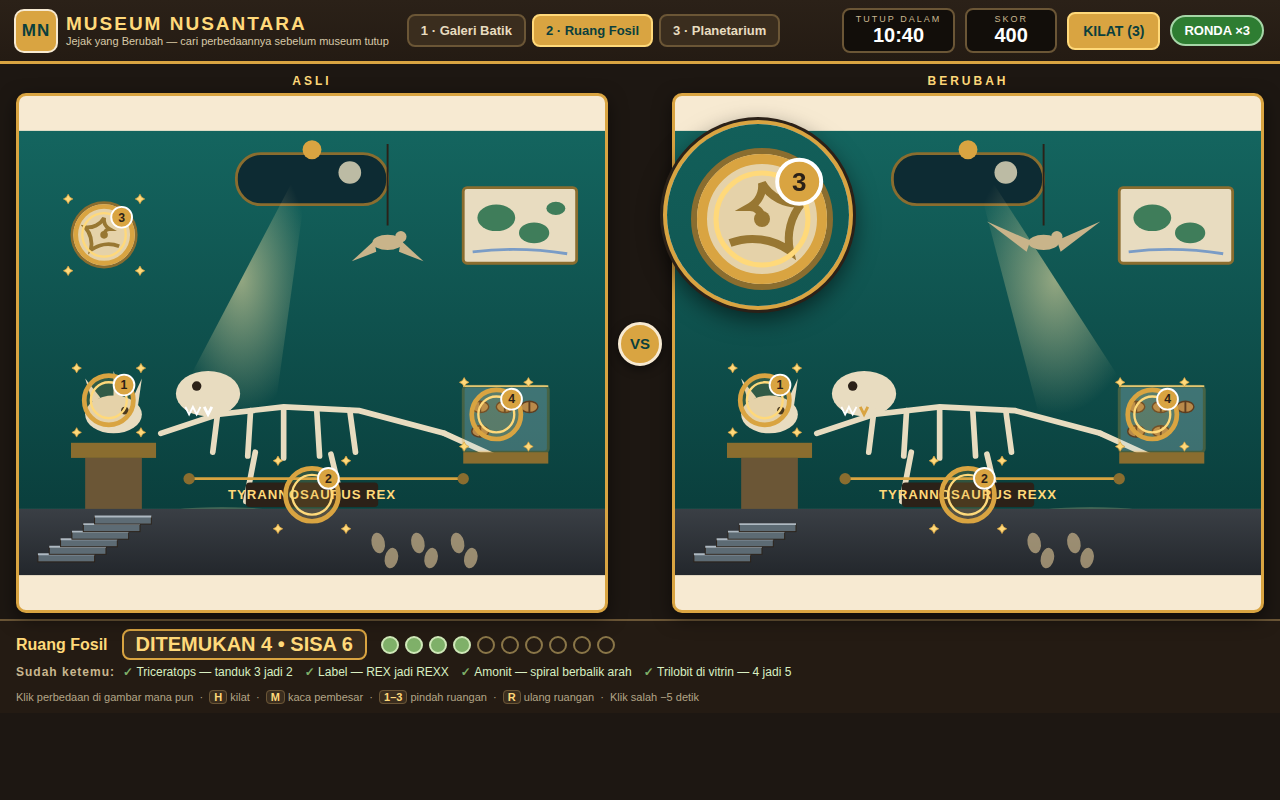
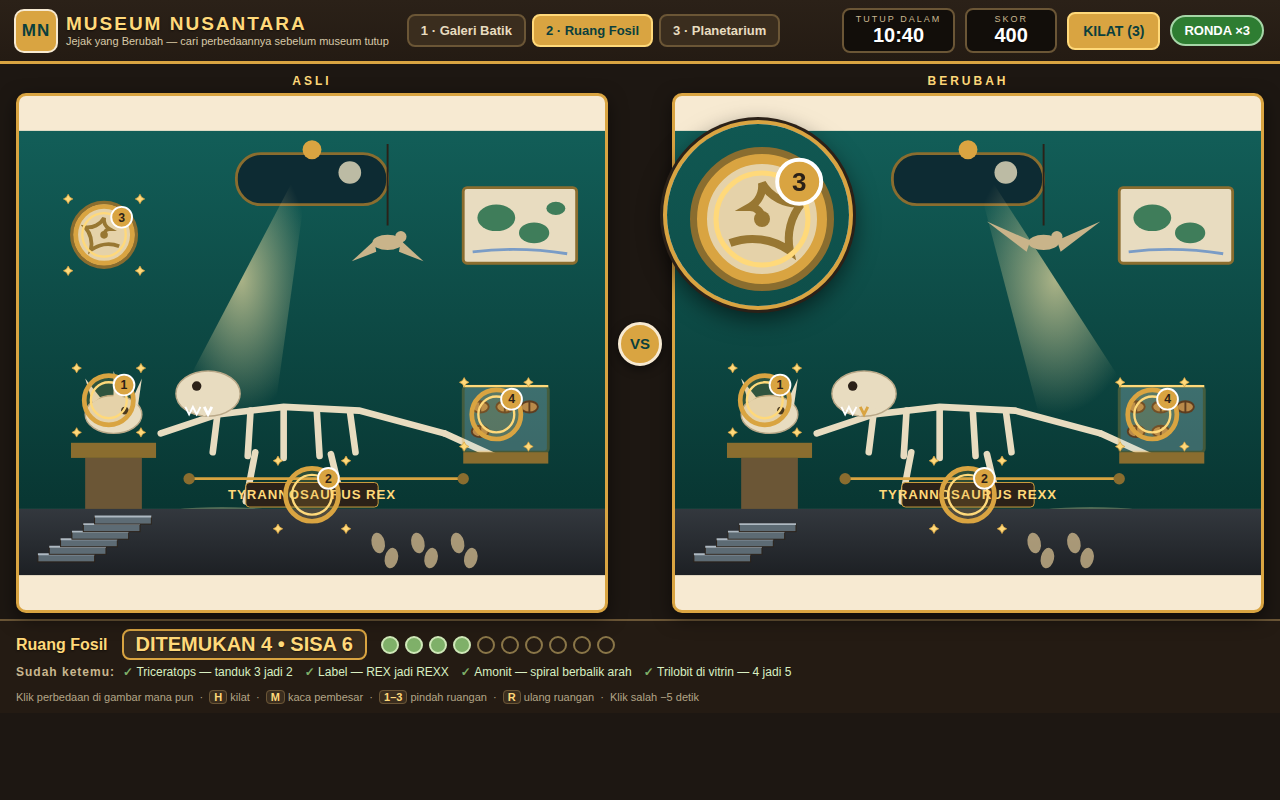
V1.1: Galeri Batik cover — richer floor, larger markers; sharpen + beautify all 3 scenes
- Scene 1: patterned runner carpet under bench, 2nd potted plant (left),
  pedestal + ceramic vase (right), larger/brighter pendant lamps,
  window sills, bench highlight, crisper sign + batik motif strokes,
  warmer wall/floor gradients.
- Markers: Scene 1 diff rings x1.2 (hit radius follows via diff.r).
- Scene 2/3: deeper teal / warmer gold grading, stronger spotlight,
  moon glow, thicker bone/planet outlines, crisper labels.
- HUD text: subtle shadow for crisper rendering (layout/function unchanged).
- All 8 Scene 1 diffs click-verified; 0 JS errors; pipeline 2x byte-identical.
- Screenshots re-shot with identical states (VH=713+pad800 pipeline).

diff --git a/game/scenes.js b/game/scenes.js
@@ -27,7 +27,7 @@
     return '<g>' +
       '<rect x="' + (x - 5) + '" y="' + (y - 5) + '" width="' + (w + 10) + '" height="' + (h + 10) +
       '" rx="4" fill="#8a6d2f"/>' +
-      '<rect x="' + x + '" y="' + y + '" width="' + w + '" height="' + h + '" fill="#fdf6e3"/>' +
+      '<rect x="' + x + '" y="' + y + '" width="' + w + '" height="' + h + '" fill="#fdf6e3" stroke="#d9a441" stroke-width="1.5"/>' +
       motif +
       '</g>';
   }
@@ -38,7 +38,7 @@
     rows.forEach(function (r) {
       var off = r[0] * 14, yy = y + r[1];
       for (var cx = x + 8 + off; cx < x + w - 6; cx += 28) {
-        s += '<path d="M' + cx + ' ' + yy + ' a11 11 0 0 1 22 0 Z" fill="' + color + '"/>';
+        s += '<path d="M' + cx + ' ' + yy + ' a11 11 0 0 1 22 0 Z" fill="' + color + '" stroke="rgba(43,33,24,0.25)" stroke-width="1"/>';
       }
     });
     return s;
@@ -49,8 +49,8 @@
     for (var i = 0; i < n; i++) {
       var x0 = x + 10 + i * 34;
       s += '<path d="M' + x0 + ' ' + (y + h - 8) + ' L' + (x0 + 26) + ' ' + (y + 8) +
-        '" stroke="#7a3b1e" stroke-width="7" stroke-linecap="round"/>';
-      s += '<circle cx="' + (x0 + 13) + '" cy="' + (y + h / 2) + '" r="4" fill="#c96f3f"/>';
+        '" stroke="#7a3b1e" stroke-width="8" stroke-linecap="round"/>';
+      s += '<circle cx="' + (x0 + 13) + '" cy="' + (y + h / 2) + '" r="4.5" fill="#c96f3f"/>';
     }
     return s;
   }
@@ -58,7 +58,7 @@
     var s = '';
     [[0.25, 0.3], [0.75, 0.3], [0.25, 0.75], [0.75, 0.75]].forEach(function (p) {
       var cx = x + w * p[0], cy = y + h * p[1];
-      s += '<circle cx="' + cx + '" cy="' + cy + '" r="16" fill="none" stroke="#0f5f5c" stroke-width="4"/>' +
+      s += '<circle cx="' + cx + '" cy="' + cy + '" r="16" fill="none" stroke="#0f5f5c" stroke-width="5"/>' +
         '<circle cx="' + cx + '" cy="' + cy + '" r="6" fill="#d9a441"/>';
     });
     return s;
@@ -78,7 +78,7 @@
     for (var i = 0; i < 3; i++) {
       for (var j = 0; j < 2; j++) {
         var cx = x + 22 + i * 44, cy = y + 20 + j * 40;
-        s += '<rect x="' + (cx - 11) + '" y="' + (cy - 11) + '" width="22" height="22" fill="none" stroke="#b23a2e" stroke-width="3" transform="rotate(45 ' + cx + ' ' + cy + ')"/>' +
+        s += '<rect x="' + (cx - 11) + '" y="' + (cy - 11) + '" width="22" height="22" fill="none" stroke="#b23a2e" stroke-width="4" transform="rotate(45 ' + cx + ' ' + cy + ')"/>' +
           '<circle cx="' + cx + '" cy="' + cy + '" r="4" fill="#b23a2e"/>';
       }
     }
@@ -102,14 +102,14 @@
     sub: 'Ruangan 1 dari 3',
     diffCount: 8,
     diffs: [
-      { id: 1, name: 'Motif parang — satu garis hilang', type: 'removed', x: 310, y: 137, r: 30 },
-      { id: 2, name: 'Mega mendung — biru jadi hijau', type: 'recoloured', x: 120, y: 137, r: 30 },
-      { id: 3, name: 'Kucing Moci — hilang dari bangku', type: 'removed', x: 330, y: 392, r: 28 },
-      { id: 4, name: 'Tanda — MENYENTUH jadi MEMOTRET', type: 'word', x: 525, y: 340, r: 30, shape: 'rect', rx: 55, ry: 20 },
-      { id: 5, name: 'Pot tanaman — daun 5 jadi 4', type: 'removed', x: 75, y: 350, r: 28 },
-      { id: 6, name: 'Lampu langit-langit — 3 nyala jadi 2', type: 'removed', x: 410, y: 38, r: 26 },
-      { id: 7, name: 'Ubin lantai — motif terbalik', type: 'flipped', x: 505, y: 447, r: 26 },
-      { id: 8, name: 'Bingkai batik lasem — mengecil', type: 'resized', x: 500, y: 257, r: 32 }
+      { id: 1, name: 'Motif parang — satu garis hilang', type: 'removed', x: 310, y: 137, r: 36 },
+      { id: 2, name: 'Mega mendung — biru jadi hijau', type: 'recoloured', x: 120, y: 137, r: 36 },
+      { id: 3, name: 'Kucing Moci — hilang dari bangku', type: 'removed', x: 330, y: 392, r: 34 },
+      { id: 4, name: 'Tanda — MENYENTUH jadi MEMOTRET', type: 'word', x: 525, y: 340, r: 36, shape: 'rect', rx: 55, ry: 20 },
+      { id: 5, name: 'Pot tanaman — daun 5 jadi 4', type: 'removed', x: 75, y: 350, r: 34 },
+      { id: 6, name: 'Lampu langit-langit — 3 nyala jadi 2', type: 'removed', x: 410, y: 38, r: 31 },
+      { id: 7, name: 'Ubin lantai — motif terbalik', type: 'flipped', x: 505, y: 447, r: 31 },
+      { id: 8, name: 'Bingkai batik lasem — mengecil', type: 'resized', x: 500, y: 257, r: 38 }
     ],
     draw: function (variant) {
       var B = variant === 'berubah';
@@ -117,9 +117,9 @@
       // defs: gradasi dinding + lantai + glow lampu
       s += '<defs>' +
         '<linearGradient id="wall1" x1="0" y1="0" x2="0" y2="1">' +
-        '<stop offset="0" stop-color="#fdf3d8"/><stop offset="1" stop-color="#f0d9a8"/></linearGradient>' +
+        '<stop offset="0" stop-color="#fdf3d8"/><stop offset="1" stop-color="#eec98f"/></linearGradient>' +
         '<linearGradient id="floor1" x1="0" y1="0" x2="0" y2="1">' +
-        '<stop offset="0" stop-color="#b98a52"/><stop offset="1" stop-color="#8a5f30"/></linearGradient>' +
+        '<stop offset="0" stop-color="#b98a52"/><stop offset="1" stop-color="#7d5527"/></linearGradient>' +
         '<radialGradient id="lampGlow" cx="0.5" cy="0.5" r="0.5">' +
         '<stop offset="0" stop-color="#ffe9a8" stop-opacity="0.9"/><stop offset="1" stop-color="#ffe9a8" stop-opacity="0"/></radialGradient>' +
         '</defs>';
@@ -131,14 +131,16 @@
           ' 34 L' + (cx + 34) + ' 78 Z" fill="#bfe0ea" stroke="#8a6d2f" stroke-width="4"/>' +
           '<circle cx="' + (cx + 10) + '" cy="48" r="10" fill="#ffd97a"/>' +
           '<path d="M' + (cx - 24) + ' 62 Q' + (cx - 8) + ' 52 ' + (cx + 6) + ' 62 Q' + (cx + 20) + ' 70 ' + (cx + 26) + ' 60" stroke="#fff" stroke-width="3" fill="none"/></g>';
+        // ambang jendela (finishing): garis tegas di bawah lengkung
+        s += '<rect x="' + (cx - 38) + '" y="78" width="76" height="5" rx="2" fill="#8a6d2f"/>';
       });
       // lampu langit-langit (3, tengah mati di berubah) — di antara jendela, bukan di depannya
       [185, 410, 590].forEach(function (cx, i) {
         var lit = !(B && i === 1);
         s += '<line x1="' + cx + '" y1="14" x2="' + cx + '" y2="26" stroke="#6b5636" stroke-width="3"/>';
-        if (lit) s += '<circle cx="' + cx + '" cy="40" r="26" fill="url(#lampGlow)"/>';
-        s += '<path d="M' + (cx - 12) + ' 26 L' + (cx + 12) + ' 26 L' + (cx + 7) + ' 40 L' + (cx - 7) + ' 40 Z" fill="' + (lit ? '#d9a441' : '#8a7a5c') + '"/>' +
-          '<circle cx="' + cx + '" cy="42" r="6" fill="' + (lit ? '#fff3c4' : '#6b6248') + '"/>';
+        if (lit) s += '<circle cx="' + cx + '" cy="40" r="31" fill="url(#lampGlow)"/>';
+        s += '<path d="M' + (cx - 14) + ' 26 L' + (cx + 14) + ' 26 L' + (cx + 8) + ' 40 L' + (cx - 8) + ' 40 Z" fill="' + (lit ? '#d9a441' : '#8a7a5c') + '"/>' +
+          '<circle cx="' + cx + '" cy="42" r="7.5" fill="' + (lit ? '#fff3c4' : '#6b6248') + '"/>';
       });
       // ---- MIDGROUND: 6 bingkai batik (2 baris x 3) ----
       s += batikFrame(40, 96, 150, 84, megaMendung(40, 96, 150, 84, B ? '#3f8f5f' : '#2f6fb2'));
@@ -150,9 +152,9 @@
       if (B) s += '<g transform="translate(500,257) scale(0.82) translate(-500,-257)">' + batikFrame(430, 210, 150, 84, lasem(430, 210, 150, 84)) + '</g>';
       else s += batikFrame(430, 210, 150, 84, lasem(430, 210, 150, 84));
       // tanda di dinding kanan
-      s += '<g><rect x="470" y="320" width="110" height="40" rx="6" fill="#2b2118"/>' +
-        '<text x="525" y="338" text-anchor="middle" fill="#f7ead2" font-size="13" font-weight="bold">DILARANG</text>' +
-        '<text x="525" y="354" text-anchor="middle" fill="#ffd97a" font-size="13" font-weight="bold">' + (B ? 'MEMOTRET' : 'MENYENTUH') + '</text></g>';
+      s += '<g><rect x="470" y="320" width="110" height="40" rx="6" fill="#2b2118" stroke="#d9a441" stroke-width="1.5"/>' +
+        '<text x="525" y="338" text-anchor="middle" fill="#f7ead2" font-size="14" font-weight="bold">DILARANG</text>' +
+        '<text x="525" y="354" text-anchor="middle" fill="#ffd97a" font-size="14" font-weight="bold">' + (B ? 'MEMOTRET' : 'MENYENTUH') + '</text></g>';
       // ---- FOREGROUND: lantai + ubin + bangku + pot ----
       s += '<rect x="0" y="400" width="620" height="70" fill="url(#floor1)"/>';
       for (var px = 0; px < 620; px += 62) {
@@ -166,6 +168,12 @@
           '<rect x="0" y="0" width="40" height="30" rx="3" fill="#e8dcc0" stroke="#8a6d2f" stroke-width="2"/>' +
           '<path d="M20 4 L26 15 L20 26 L14 15 Z" fill="#c96f3f"/></g>';
       }
+      // karpet runner bermotif di lantai (dekorasi non-diff, di bawah bangku)
+      s += '<g><rect x="205" y="406" width="250" height="60" rx="4" fill="#a83226" stroke="#7a241a" stroke-width="2"/>' +
+        '<rect x="213" y="412" width="234" height="48" rx="3" fill="none" stroke="#d9a441" stroke-width="2"/></g>';
+      for (var dx = 232; dx <= 428; dx += 28) {
+        s += '<path d="M' + dx + ' 428 L' + (dx + 7) + ' 436 L' + dx + ' 444 L' + (dx - 7) + ' 436 Z" fill="#d9a441"/>';
+      }
       // pot tanaman kiri (5 daun -> 4)
       s += '<g><path d="M55 400 L60 372 L95 372 L100 400 Z" fill="#a83226"/>' +
         '<rect x="52" y="366" width="50" height="10" rx="3" fill="#7a241a"/></g>';
@@ -174,16 +182,33 @@
         var lx = 62 + li * 11, lh = 26 - Math.abs(li - 2) * 5;
         s += '<ellipse cx="' + lx + '" cy="' + (368 - lh / 2) + '" rx="6" ry="' + lh / 2 + '" fill="#3f7d3a" transform="rotate(' + ((li - 2) * 12) + ' ' + lx + ' 368)"/>';
       }
+      // pot tanaman kedua di ujung kiri deretan bangku (dekorasi non-diff)
+      s += '<g><path d="M192 400 L196 372 L220 372 L224 400 Z" fill="#2f6f5c"/>' +
+        '<rect x="188" y="366" width="36" height="10" rx="3" fill="#245548"/>' +
+        '<circle cx="198" cy="360" r="10" fill="#4a8f3f" stroke="#2f5c28" stroke-width="1"/>' +
+        '<circle cx="206" cy="352" r="11" fill="#55a047" stroke="#2f5c28" stroke-width="1"/>' +
+        '<circle cx="214" cy="360" r="10" fill="#4a8f3f" stroke="#2f5c28" stroke-width="1"/></g>';
+      // pedestal display + vas keramik di ujung kanan deretan bangku (dekorasi non-diff)
+      s += '<g><rect x="436" y="352" width="32" height="50" fill="#6b5636"/>' +
+        '<rect x="434" y="348" width="34" height="6" rx="2" fill="#d9a441"/>' +
+        '<rect x="434" y="400" width="34" height="5" fill="#4a3a22"/>' +
+        '<path d="M442 348 C436 336 436 328 444 324 L460 324 C468 328 468 336 462 348 Z" fill="#2f6fb2"/>' +
+        '<rect x="442" y="334" width="20" height="4" fill="#fdf6e3"/>' +
+        '<rect x="448" y="320" width="8" height="6" fill="#2f6fb2"/>' +
+        '<path d="M452 320 Q448 310 444 308" stroke="#3f7d3a" stroke-width="2" fill="none"/>' +
+        '<path d="M452 320 Q456 310 460 308" stroke="#3f7d3a" stroke-width="2" fill="none"/></g>';
       // bayangan lembut di bawah bangku + pot (cahaya dari langit-langit, atas)
       s += '<ellipse cx="320" cy="430" rx="115" ry="8" fill="#000" opacity="0.12"/>' +
-        '<ellipse cx="78" cy="426" rx="38" ry="6" fill="#000" opacity="0.12"/>';
+        '<ellipse cx="78" cy="426" rx="38" ry="6" fill="#000" opacity="0.12"/>' +
+        '<ellipse cx="206" cy="424" rx="26" ry="5" fill="#000" opacity="0.12"/>';
       // bangku kayu + Moci (hilang di berubah)
       s += '<g><rect x="230" y="384" width="200" height="14" rx="4" fill="#7a5230"/>' +
+        '<rect x="230" y="384" width="200" height="3" rx="1.5" fill="#a87b45"/>' +
         '<rect x="242" y="398" width="12" height="26" fill="#5d3d20"/>' +
         '<rect x="406" y="398" width="12" height="26" fill="#5d3d20"/></g>';
       if (!B) s += cat(330, 378, 1);
       // tali pembatas depan bingkai bawah (foreground tipis)
-      s += '<g><line x1="30" y1="318" x2="590" y2="318" stroke="#d9a441" stroke-width="3"/>' +
+      s += '<g><line x1="30" y1="318" x2="590" y2="318" stroke="#d9a441" stroke-width="4"/>' +
         '<circle cx="30" cy="318" r="6" fill="#8a6d2f"/><circle cx="310" cy="318" r="6" fill="#8a6d2f"/><circle cx="590" cy="318" r="6" fill="#8a6d2f"/></g>';
       return s;
     }
@@ -212,17 +237,17 @@
       var s = '';
       s += '<defs>' +
         '<linearGradient id="wall2" x1="0" y1="0" x2="0" y2="1">' +
-        '<stop offset="0" stop-color="#14655f"/><stop offset="1" stop-color="#0a3f3d"/></linearGradient>' +
+        '<stop offset="0" stop-color="#125e58"/><stop offset="1" stop-color="#083632"/></linearGradient>' +
         '<linearGradient id="floor2" x1="0" y1="0" x2="0" y2="1">' +
-        '<stop offset="0" stop-color="#3a3f45"/><stop offset="1" stop-color="#23272c"/></linearGradient>' +
+        '<stop offset="0" stop-color="#33383e"/><stop offset="1" stop-color="#1d2024"/></linearGradient>' +
         '<radialGradient id="spot2" cx="0.5" cy="0.5" r="0.5">' +
-        '<stop offset="0" stop-color="#ffe9a8" stop-opacity="0.55"/><stop offset="1" stop-color="#ffe9a8" stop-opacity="0"/></radialGradient>' +
+        '<stop offset="0" stop-color="#ffe9a8" stop-opacity="0.65"/><stop offset="1" stop-color="#ffe9a8" stop-opacity="0"/></radialGradient>' +
         '</defs>';
       // ---- BACKGROUND: dinding teal + amonit + peta ----
       s += '<rect x="0" y="0" width="620" height="400" fill="url(#wall2)"/>';
       // amonit besar di dinding kiri (spiral berbalik di berubah)
       s += '<g transform="translate(90,110) ' + (B ? 'scale(-1,1)' : '') + '">' +
-        '<circle r="34" fill="#e8dcc0" stroke="#8a6d2f" stroke-width="3"/>' +
+        '<circle r="34" fill="#e8dcc0" stroke="#8a6d2f" stroke-width="4"/>' +
         '<path d="M0 0 A6 6 0 0 1 6 -6 A12 12 0 0 1 0 -18 A20 20 0 0 1 -20 -8 A28 28 0 0 1 -14 16 A32 32 0 0 1 16 12" fill="none" stroke="#8a6d2f" stroke-width="4"/>' +
         '<circle r="4" fill="#8a6d2f"/></g>';
       // peta dinding kanan (satu benua hilang di berubah)
@@ -240,7 +265,7 @@
       s += '<path d="M310 14 L' + (spotX - 55) + ' 300 L' + (spotX + 55) + ' 300 Z" fill="url(#spot2)"/>';
       s += '<circle cx="310" cy="20" r="10" fill="#d9a441"/>';
       // kolam cahaya spotlight di lantai (satu sumber cahaya: dari atas ke T-rex)
-      s += '<ellipse cx="' + spotX + '" cy="408" rx="72" ry="10" fill="#ffe9a8" opacity="0.20"/>';
+      s += '<ellipse cx="' + spotX + '" cy="408" rx="72" ry="10" fill="#ffe9a8" opacity="0.28"/>';
       // pterodactyl gantung (sayap terlipat / terbentang)
       s += '<line x1="390" y1="14" x2="390" y2="100" stroke="#2b2118" stroke-width="2"/>';
       if (B) {
@@ -249,36 +274,36 @@
         s += '<g fill="#c9b48a"><ellipse cx="390" cy="118" rx="16" ry="8"/><path d="M376 116 L352 138 L378 128 Z"/><path d="M404 116 L428 138 L402 128 Z"/><circle cx="404" cy="112" r="6"/></g>';
       }
       // kerangka T-rex (tengah): tengkorak, tulang punggung, rusuk, kaki, ekor
-      s += '<g stroke="#e8dcc0" stroke-width="6" stroke-linecap="round" fill="none">' +
+      s += '<g stroke="#e8dcc0" stroke-width="7" stroke-linecap="round" fill="none">' +
         '<path d="M150 320 L210 300 L280 292 L360 296 L450 320"/>' + // tulang punggung
         '<path d="M210 300 L205 340 M245 296 L242 344 M280 294 L280 346 M315 295 L318 344 M350 296 L356 340"/>' + // rusuk
         '<path d="M250 340 L240 392 M330 342 L342 392"/>' + // kaki
         '<path d="M450 320 L505 345"/>' + // ekor
         '</g>';
       // tengkorak T-rex + rahang + gigi (satu emas di berubah)
-      s += '<g><ellipse cx="200" cy="278" rx="34" ry="24" fill="#e8dcc0"/>' +
+      s += '<g><ellipse cx="200" cy="278" rx="34" ry="24" fill="#e8dcc0" stroke="#b9a888" stroke-width="1.5"/>' +
         '<path d="M172 286 L196 302 L222 288 Z" fill="#e8dcc0"/>' +
         '<circle cx="188" cy="270" r="5" fill="#2b2118"/>' +
         '<path d="M176 292 l4 8 4 -8 4 8 4 -8" stroke="#fff" stroke-width="2" fill="none"/>' +
         '<path d="M196 292 l4 8 4 -8" stroke="' + (B ? '#d9a441' : '#fff') + '" stroke-width="3" fill="none"/></g>';
       // label nama Latin
-      s += '<g><rect x="240" y="372" width="140" height="26" rx="4" fill="#2b2118"/>' +
+      s += '<g><rect x="240" y="372" width="140" height="26" rx="4" fill="#2b2118" stroke="#d9a441" stroke-width="1"/>' +
         '<text x="310" y="390" text-anchor="middle" fill="#ffd97a" font-size="14" font-weight="bold" letter-spacing="1">TYRANNOSAURUS ' + (B ? 'REXX' : 'REX') + '</text></g>';
       // tengkorak triceratops di podium kiri (3 tanduk -> 2)
       s += '<g><rect x="55" y="330" width="90" height="16" fill="#8a6d2f"/><rect x="70" y="346" width="60" height="54" fill="#6b5636"/>' +
-        '<ellipse cx="100" cy="300" rx="30" ry="20" fill="#e8dcc0"/>' +
+        '<ellipse cx="100" cy="300" rx="30" ry="20" fill="#e8dcc0" stroke="#b9a888" stroke-width="1.5"/>' +
         '<path d="M78 288 L70 262 L86 282 Z" fill="#e8dcc0"/>' +
         (B ? '' : '<path d="M100 282 L100 254 L110 282 Z" fill="#e8dcc0"/>') +
         '<path d="M118 288 L130 262 L126 290 Z" fill="#e8dcc0"/>' +
         '<circle cx="112" cy="296" r="4" fill="#2b2118"/></g>';
       // vitrin trilobit kanan (4 -> 5) + rim light di tepi atas (cahaya dari atas)
       s += '<g><rect x="470" y="270" width="90" height="70" rx="4" fill="#bfe0ea" opacity="0.28" stroke="#d9a441" stroke-width="3"/>' +
-        '<line x1="470" y1="270" x2="560" y2="270" stroke="#ffd97a" stroke-width="2" opacity="0.85"/>' +
+        '<line x1="470" y1="270" x2="560" y2="270" stroke="#ffd97a" stroke-width="2.5" opacity="1"/>' +
         '<rect x="470" y="340" width="90" height="12" fill="#8a6d2f"/></g>';
       var tri = B ? 5 : 4;
       for (var ti = 0; ti < tri; ti++) {
         var txp = 488 + (ti % 3) * 26, typ = 292 + Math.floor(ti / 3) * 26;
-        s += '<ellipse cx="' + txp + '" cy="' + typ + '" rx="9" ry="6" fill="#b98a4a" stroke="#5d3d20" stroke-width="1.5"/>' +
+        s += '<ellipse cx="' + txp + '" cy="' + typ + '" rx="9" ry="6" fill="#b98a4a" stroke="#5d3d20" stroke-width="2"/>' +
           '<line x1="' + txp + '" y1="' + (typ - 6) + '" x2="' + txp + '" y2="' + (typ + 6) + '" stroke="#5d3d20" stroke-width="2"/>';
       }
       // ---- FOREGROUND: lantai + tangga + jejak ----
@@ -294,8 +319,8 @@
       var pairs = B ? 2 : 3;
       for (var fi = 0; fi < pairs; fi++) {
         var fx = 380 + fi * 42;
-        s += '<ellipse cx="' + fx + '" cy="436" rx="7" ry="11" fill="#c9b48a" opacity="0.7" transform="rotate(-12 ' + fx + ' 436)"/>' +
-          '<ellipse cx="' + (fx + 14) + '" cy="452" rx="7" ry="11" fill="#c9b48a" opacity="0.7" transform="rotate(12 ' + (fx + 14) + ' 452)"/>';
+        s += '<ellipse cx="' + fx + '" cy="436" rx="7" ry="11" fill="#c9b48a" opacity="0.8" transform="rotate(-12 ' + fx + ' 436)"/>' +
+          '<ellipse cx="' + (fx + 14) + '" cy="452" rx="7" ry="11" fill="#c9b48a" opacity="0.8" transform="rotate(12 ' + (fx + 14) + ' 452)"/>';
       }
       // tali pembatas
       s += '<g><line x1="180" y1="368" x2="470" y2="368" stroke="#d9a441" stroke-width="3"/>' +
@@ -334,6 +359,8 @@
         '<stop offset="0" stop-color="#2c3550"/><stop offset="1" stop-color="#141a2e"/></linearGradient>' +
         '<radialGradient id="spot3" cx="0.5" cy="0.5" r="0.5">' +
         '<stop offset="0" stop-color="#9fb4ff" stop-opacity="0.5"/><stop offset="1" stop-color="#9fb4ff" stop-opacity="0"/></radialGradient>' +
+        '<radialGradient id="moonGlow" cx="0.5" cy="0.5" r="0.5">' +
+        '<stop offset="0" stop-color="#cfe0ff" stop-opacity="0.35"/><stop offset="1" stop-color="#cfe0ff" stop-opacity="0"/></radialGradient>' +
         '</defs>';
       // ---- BACKGROUND: kubah + bintang berkelip + Biduk ----
       s += '<path d="M0 400 L0 150 A310 190 0 0 1 620 150 L620 400 Z" fill="url(#wall3)"/>';
@@ -341,14 +368,14 @@
       // bintang kecil berkelip (efek: class twinkle, delay berbeda)
       var stars = [[40, 90], [90, 60], [150, 120], [210, 50], [260, 130], [330, 60], [380, 120], [430, 50], [480, 100], [540, 60], [580, 140], [60, 180], [200, 170], [330, 180], [500, 190], [580, 210], [120, 220], [260, 230], [420, 220]];
       stars.forEach(function (p, i) {
-        s += '<circle class="twinkle" style="animation-delay:' + (i * 0.35) + 's" cx="' + p[0] + '" cy="' + p[1] + '" r="' + (2 + (i % 3)) + '" fill="#fff"/>';
+        s += '<circle class="twinkle" style="animation-delay:' + (i * 0.35) + 's" cx="' + p[0] + '" cy="' + p[1] + '" r="' + (2.5 + (i % 3) * 0.5) + '" fill="#fff"/>';
       });
       // Rasi Biduk (satu bintang hilang di berubah)
       var dipper = [[180, 60], [215, 48], [250, 60], [280, 82], [310, 78], [335, 55], [355, 88]];
-      s += '<g stroke="#ffd97a" stroke-width="2" fill="none"><path d="M180 60 L215 48 L250 60 L280 82 L310 78 L335 55"/></g>';
+      s += '<g stroke="#ffd97a" stroke-width="2.5" fill="none"><path d="M180 60 L215 48 L250 60 L280 82 L310 78 L335 55"/></g>';
       dipper.forEach(function (p, i) {
         if (B && i === 2) return; // bintang hilang
-        s += '<circle cx="' + p[0] + '" cy="' + p[1] + '" r="4.5" fill="#ffd97a"/>';
+        s += '<circle cx="' + p[0] + '" cy="' + p[1] + '" r="5" fill="#ffd97a"/>';
       });
       // bintang jatuh (hanya di berubah)
       if (B) {
@@ -356,7 +383,8 @@
           '<circle cx="400" cy="70" r="4" fill="#fff"/></g>';
       }
       // jendela bulan sabit — sabit TEBAL yang terbaca: cakram pucat + carving gelap
-      s += '<g><circle cx="540" cy="130" r="34" fill="#1b2a5e" stroke="#d9a441" stroke-width="3"/>' +
+      s += '<circle cx="540" cy="130" r="46" fill="url(#moonGlow)"/>' +
+        '<g><circle cx="540" cy="130" r="34" fill="#1b2a5e" stroke="#d9a441" stroke-width="3"/>' +
         '<circle cx="540" cy="130" r="21" fill="#ffe9a8"/>' +
         '<circle cx="' + (B ? 530 : 550) + '" cy="126" r="18" fill="#1b2a5e"/></g>';
       // seberkas cahaya bulan dari jendela ke lantai (sumber cahaya kedua yang lembut)
@@ -368,15 +396,15 @@
         '<circle cx="560" cy="60" r="2.5" fill="#2b2118"/></g>';
       // ---- MIDGROUND: planet + teleskop + astronot + peta bintang ----
       // Saturnus (2 cincin -> 1)
-      s += '<g><circle cx="140" cy="140" r="34" fill="#e8c97a"/>' +
+      s += '<g><circle cx="140" cy="140" r="34" fill="#eec27a" stroke="#b98a4a" stroke-width="1.5"/>' +
         '<ellipse cx="140" cy="140" rx="56" ry="14" fill="none" stroke="#d9a441" stroke-width="5" transform="rotate(-18 140 140)"/>' +
         (B ? '' : '<ellipse cx="140" cy="140" rx="66" ry="18" fill="none" stroke="#c9a24a" stroke-width="3" transform="rotate(-18 140 140)"/>') +
         '<path d="M118 128 Q140 118 162 130" stroke="#c9a24a" stroke-width="3" fill="none"/></g>';
       // Mars (merah -> oranye)
-      s += '<circle cx="300" cy="110" r="24" fill="' + (B ? '#e8912d' : '#c65a3a') + '"/>' +
+      s += '<circle cx="300" cy="110" r="24" fill="' + (B ? '#e8912d' : '#c65a3a') + '" stroke="#8a3a20" stroke-width="1.5"/>' +
         '<circle cx="292" cy="104" r="5" fill="#8a3a20" opacity="0.6"/><circle cx="308" cy="118" r="4" fill="#8a3a20" opacity="0.6"/>';
       // Jupiter (3 garis -> 2)
-      s += '<circle cx="460" cy="150" r="30" fill="#d8b48a"/>' +
+      s += '<circle cx="460" cy="150" r="30" fill="#d8b48a" stroke="#a8825a" stroke-width="1.5"/>' +
         '<path d="M432 142 Q460 136 488 142" stroke="#a83226" stroke-width="5" fill="none"/>' +
         '<path d="M432 156 Q460 150 488 156" stroke="#a83226" stroke-width="5" fill="none"/>' +
         (B ? '' : '<path d="M436 168 Q460 163 484 168" stroke="#c96f3f" stroke-width="4" fill="none"/>');
@@ -384,23 +412,25 @@
       s += '<g><rect x="40" y="180" width="110" height="70" rx="4" fill="#0d1a3a" stroke="#d9a441" stroke-width="2"/>' +
         '<circle cx="70" cy="205" r="3" fill="#fff"/><circle cx="95" cy="195" r="3" fill="#fff"/><circle cx="120" cy="210" r="3" fill="#fff"/><circle cx="90" cy="228" r="3" fill="#fff"/>' +
         '<path d="M70 205 L95 195 L120 210 L90 228" stroke="#ffd97a" stroke-width="1.5" fill="none"/>' +
-        '<text x="95" y="242" text-anchor="middle" fill="#ffd97a" font-size="12" font-weight="bold">' + (B ? 'ORIONN' : 'ORION') + '</text></g>';
+        '<text x="95" y="242" text-anchor="middle" fill="#ffd97a" font-size="13" font-weight="bold">' + (B ? 'ORIONN' : 'ORION') + '</text></g>';
       // teleskop (mengarah bulan / Mars)
       var ang = B ? -28 : -52;
       s += '<g transform="translate(300,330) rotate(' + ang + ')">' +
         '<rect x="-8" y="-70" width="16" height="70" rx="6" fill="#c9c9c9" stroke="#6b6b6b" stroke-width="2"/>' +
+        '<line x1="-4" y1="-66" x2="-4" y2="-6" stroke="#fff" stroke-width="2" opacity="0.35"/>' +
         '<circle cx="0" cy="-72" r="10" fill="#9fb4ff"/></g>' +
         '<path d="M288 330 L312 330 L318 380 L282 380 Z" fill="#5d6b74"/>';
       // sorot teleskop
       s += '<path d="M300 262 L' + (B ? '290' : '252') + ' 120 L' + (B ? '318' : '276') + ' 118 Z" fill="url(#spot3)"/>';
       // manekin astronot (visor naik / turun)
-      s += '<g><rect x="500" y="300" width="40" height="70" rx="10" fill="#e8e8e8"/>' +
+      s += '<g><rect x="500" y="300" width="40" height="70" rx="10" fill="#e8e8e8" stroke="#b9b9b9" stroke-width="1.5"/>' +
         '<circle cx="520" cy="278" r="20" fill="#f4f4f4" stroke="#b9b9b9" stroke-width="2"/>' +
         (B ? '<path d="M504 272 A16 16 0 0 1 536 272 L536 282 L504 282 Z" fill="#7fb069"/>' :
           '<path d="M504 272 A16 16 0 0 1 536 272 L536 262 A16 16 0 0 0 504 262 Z" fill="#9fb4ff"/>') +
         '<rect x="508" y="330" width="10" height="8" fill="#c65a3a"/><rect x="524" y="330" width="10" height="8" fill="#c65a3a"/></g>';
       // ---- FOREGROUND: meja kontrol + peta lantai + Moci ----
       s += '<g><rect x="180" y="384" width="260" height="46" rx="8" fill="#3a3f45" stroke="#d9a441" stroke-width="2"/>' +
+        '<rect x="180" y="384" width="260" height="4" rx="2" fill="#ffffff" opacity="0.08"/>' +
         '<rect x="196" y="392" width="40" height="22" rx="3" fill="#1d2b1d"/>' +
         '<circle cx="206" cy="403" r="3" fill="#7fd08a"/><circle cx="218" cy="403" r="3" fill="#ffd97a"/></g>';
       var btns = B ? 5 : 6;
@@ -409,7 +439,7 @@
         s += '<circle cx="' + bx + '" cy="403" r="9" fill="' + ['#c65a3a', '#d9a441', '#3f7d5a', '#7fb069', '#9fb4ff', '#c96f3f'][bi] + '" stroke="#2b2118" stroke-width="2"/>';
       }
       // peta bintang di lantai (border lebih terang supaya terbaca di lantai gelap)
-      s += '<g><rect x="60" y="428" width="500" height="34" rx="4" fill="#182642" stroke="#8a9cc6" stroke-width="2"/>' +
+      s += '<g><rect x="60" y="428" width="500" height="34" rx="4" fill="#182642" stroke="#8a9cc6" stroke-width="2.5"/>' +
         '<circle cx="110" cy="445" r="3" fill="#fff"/><circle cx="180" cy="440" r="3" fill="#fff"/><circle cx="250" cy="448" r="3" fill="#fff"/><circle cx="430" cy="442" r="3" fill="#fff"/><circle cx="500" cy="448" r="3" fill="#fff"/>' +
         '<path d="M110 445 L180 440 L250 448" stroke="#ffd97a" stroke-width="1.5" fill="none"/></g>';
       // Moci tidur di peta bintang (hanya di berubah)

diff --git a/game/styles.css b/game/styles.css
@@ -68,6 +68,7 @@ body {
 }
 .hidden { display: none !important; }
 
+.hud-value, .counter, #scene-name, .brand h1 { text-shadow: 0 1px 2px rgba(0,0,0,.55); }
 /* ---------- Stage: dua panel ---------- */
 #stage {
   flex: 1; display: flex; align-items: stretch; justify-content: center;
